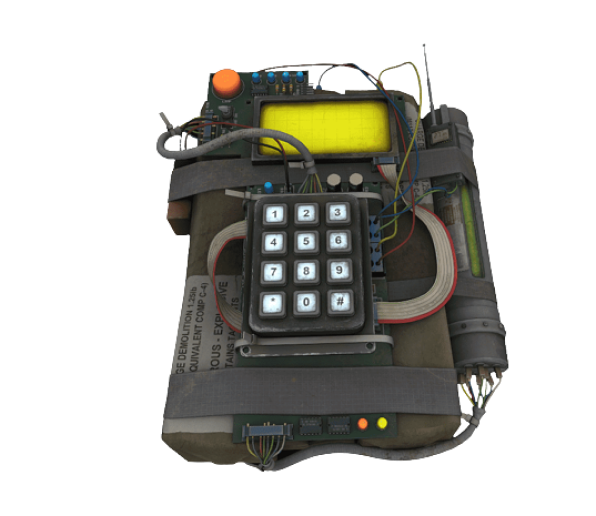
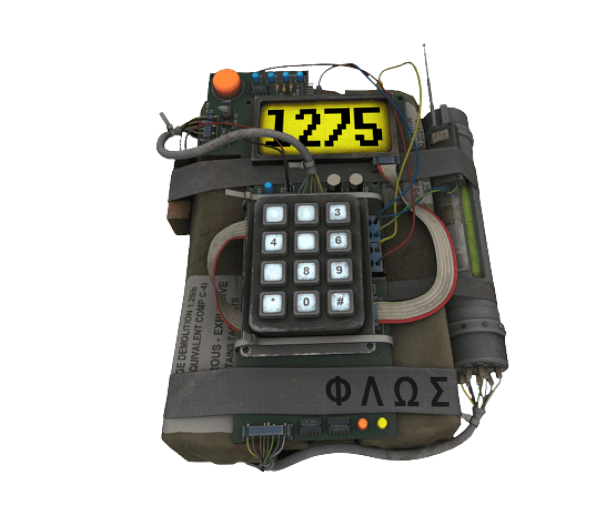
added bomb hints

diff --git a/screens/screen_check.py b/screens/screen_check.py
@@ -1,5 +1,5 @@
-sitea = True
-doors = True
+sitea = False
+doors = False
 spawn = True
 passcode = 1275
 slider = [30, 50, 100]
